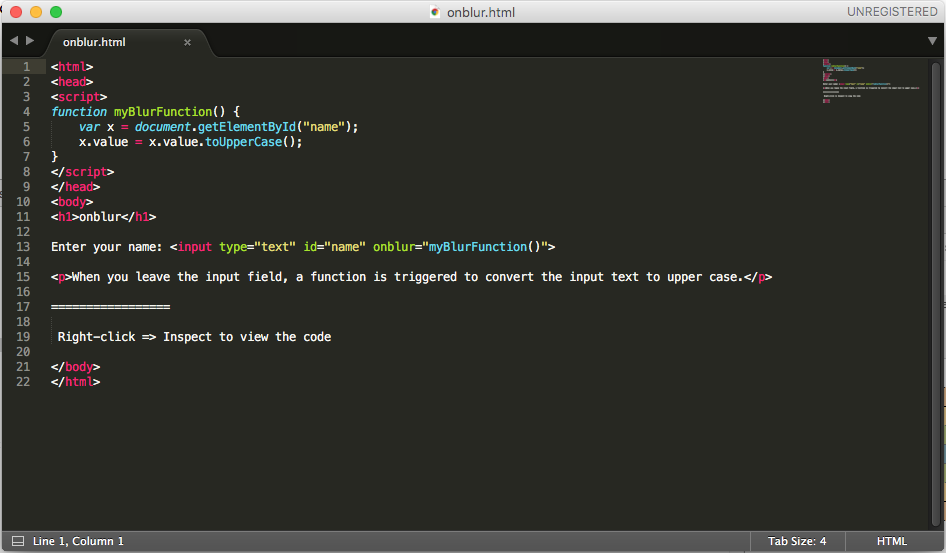
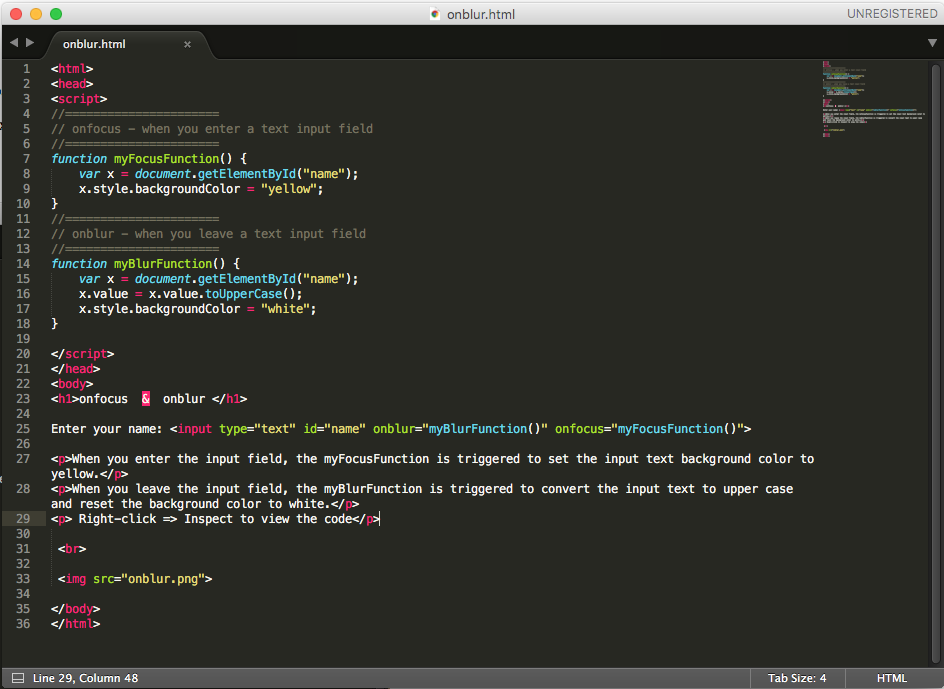
update nobler & on focus

Changed region(s): [[0.0, 0.0, 1.0, 1.0], [0.0614, 0.83, 0.215, 0.9222], [0.2765, 0.3382, 0.3379, 0.3689]]

diff --git a/dojo/files/onblur.html b/dojo/files/onblur.html
@@ -1,24 +1,32 @@
 <html>
 <head>
 <script>
+//======================
+// onfocus - when you enter a text input field
+//======================
+function myFocusFunction() {
+	var x = document.getElementById("name");
+    x.style.backgroundColor = "yellow";
+}
+//======================
+// onblur - when you leave a text input field
+//======================
 function myBlurFunction() {
     var x = document.getElementById("name");
     x.value = x.value.toUpperCase();
+    x.style.backgroundColor = "white";
 }
+
 </script>
 </head>
 <body>
-<h1>onblur</h1>
+<h1>onfocus  &  onblur </h1>
 
-Enter your name: <input type="text" id="name" onblur="myBlurFunction()">
+Enter your name: <input type="text" id="name" onblur="myBlurFunction()" onfocus="myFocusFunction()">
 
-<p>When you leave the input field, the myBlurFunction is triggered to convert the input text to upper case.</p>
-
-=================
-
-<br>
-
- Right-click => Inspect to view the code
+<p>When you enter the input field, the myFocusFunction is triggered to set the input text background color to yellow.</p>
+<p>When you leave the input field, the myBlurFunction is triggered to convert the input text to upper case and reset the background color to white.</p>
+<p> Right-click => Inspect to view the code</p>
 
  <br>
 
